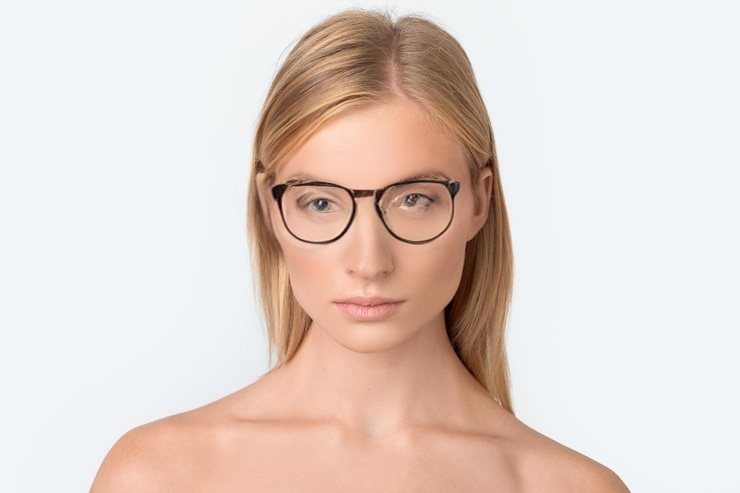
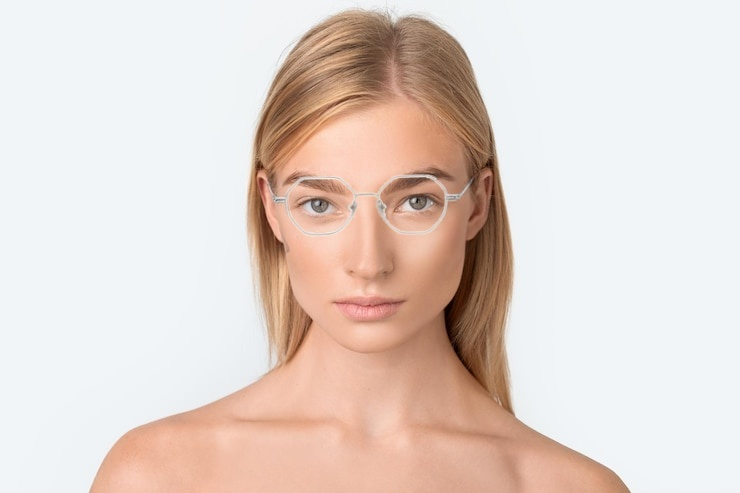
Use verified try-on example outputs

Changed region(s): [[0.3419, 0.3347, 0.6527, 0.5172]]

diff --git a/README.md b/README.md
@@ -6,7 +6,7 @@
 
 ## Пример
 
-| Вход | Геометрическая примерка | Диффузионная доработка |
+| Вход | Геометрическая примерка | Диффузионная доработка дужек |
 |---|---|---|
 | ![Input face](examples/input/face.jpg) | ![Geometric try-on](examples/output/geometric_tryon.jpg) | ![Diffusion-refined try-on](examples/output/diffusion_refined.jpg) |
 
@@ -80,7 +80,7 @@ python diffusion_refine.py \
   --original examples/input/face.jpg \
   --composed result.jpg \
   --out result_refined.jpg \
-  --mode glasses --low-vram
+  --mode temples_only --low-vram
 ```
 
 Флаг `--all` запускает все четыре режима маски.
